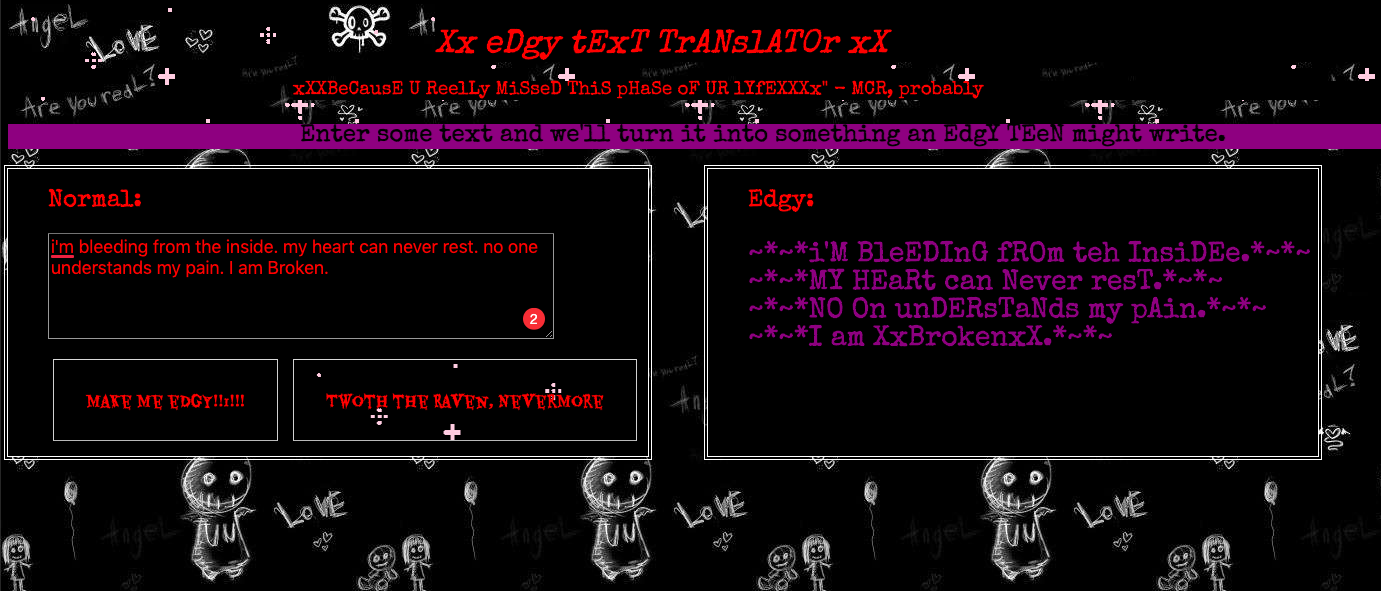
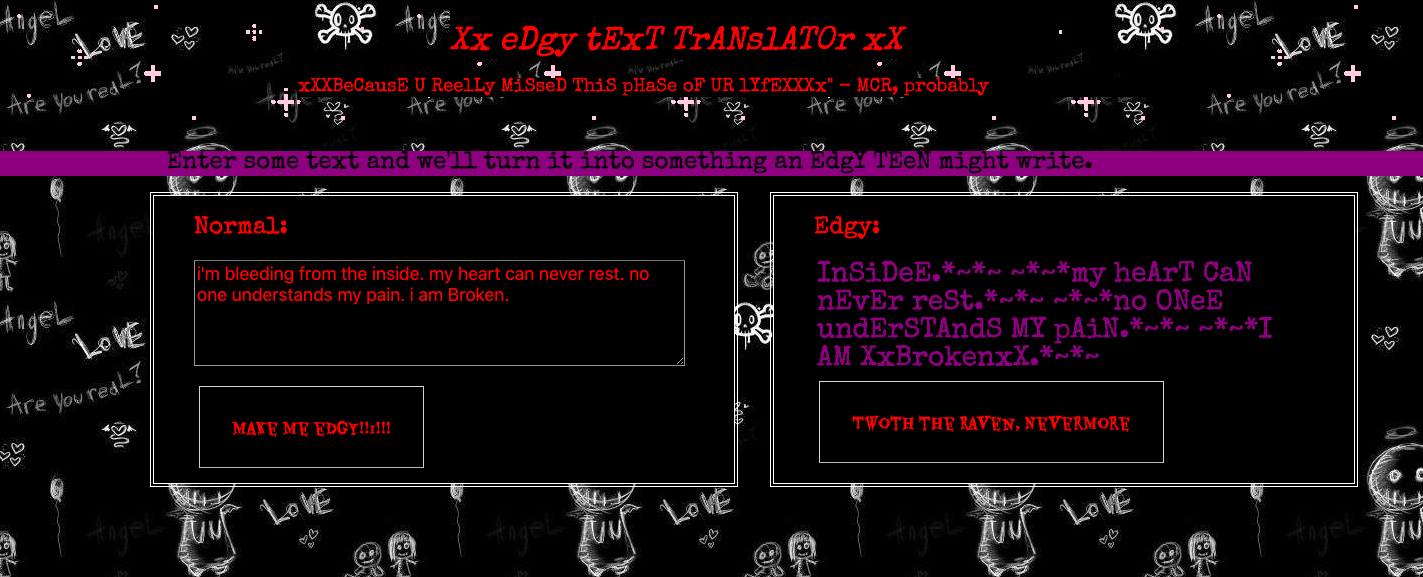
moved twitter button and replaced screenshots

diff --git a/style.css b/style.css
@@ -44,7 +44,7 @@ h1 {
 #input {
     background-color: black;
     width:100%;
-    max-width: 500px;
+    max-width: 485px;
     height: 100px;
     color: red;
     font-size:18px;
@@ -66,14 +66,19 @@ button:hover {background-image:url("assets/sparkles.gif"); }
 #result {
     color: purple;
     font-size:28px;
+    margin:0px;
+    padding:3px;
     width:100%;
+    max-width:475px ;
     height: 100px;
+    overflow: scroll;
 }
 
 .left-column{
     margin-top:15px;
-    width: 60%;
-    max-width: 600px;
+    width:50%;
+    max-width: 500px;
+    min-width: 300px;
     margin-right: 20px;
     margin-left:25px;
     padding-right:40px;
@@ -85,7 +90,8 @@ button:hover {background-image:url("assets/sparkles.gif"); }
 
 .right-column {
     margin-top:15px;
-    max-width: 600px;
+    max-width: 500px;
+    min-width: 300px;
     width: 40%;
     margin-left: 20px;
     margin-right:25px;
@@ -93,8 +99,19 @@ button:hover {background-image:url("assets/sparkles.gif"); }
     padding-right:40px;
     background-color: black;
     outline: 4px double white;
-    overflow: scroll;
+    
 }
 .flex-grid {
     display: flex;
+    flex-flow: row wrap;
+    justify-content: center;
 }
+
+#footer {
+    color:white;
+    font-weight: bold;
+    margin:auto;
+    text-align:center;
+    background-color: black;
+    float:bottom;
+  }

diff --git a/index.html b/index.html
@@ -3,8 +3,8 @@
 <html lang="en">
 
 <head>
-        <link href="style.css" type="text/css" rel="stylesheet"/>
-        <link rel="shortcut icon" href="favicon.ico" type="image/x-icon"/>
+        <link href="style.css" type="text/css" rel="stylesheet">
+        <link rel="shortcut icon" href="favicon.ico" type="image/x-icon">
         <link href="https://fonts.googleapis.com/css?family=Eater|Special+Elite" rel="stylesheet">
         <script src="https://ajax.googleapis.com/ajax/libs/jquery/3.1.0/jquery.min.js"></script>
         <script src="edgify.js"></script>
@@ -31,13 +31,15 @@
         <span><h2>Normal:</h2></span>
         <textarea  id="input" name="textarea"></textarea>
         <button id="submit">make me eDgY!!1!!!</button>
-        <button id="tweet">Twoth the Raven, Nevermore</button>
         </div>
         <div class="right-column">
         <span><h2>Edgy:</h2></span>
         <h3 id="result"></h3>
+        <button id="tweet">Twoth the Raven, Nevermore</button>
         </div>
     </div>
-    
+   
+   
 </body>
+
 </html>
